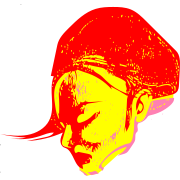
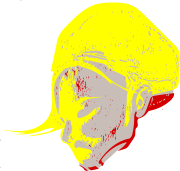
Updated the lady face and window size. Still don't like it yet, need to figure out a way to separate the face from the hair.

diff --git a/main.py b/main.py
@@ -41,7 +41,7 @@ stats = GameScore()
 # Set the sky blue background color
 Window.clearcolor = (skyBlue[0], skyBlue[1], skyBlue[2], 1)
 if platform == 'linux':
-    Window.size = (1000, 562)
+    Window.size = (1200, 675)
 width, height = Window.size
 Window.release_all_keyboards()
 
